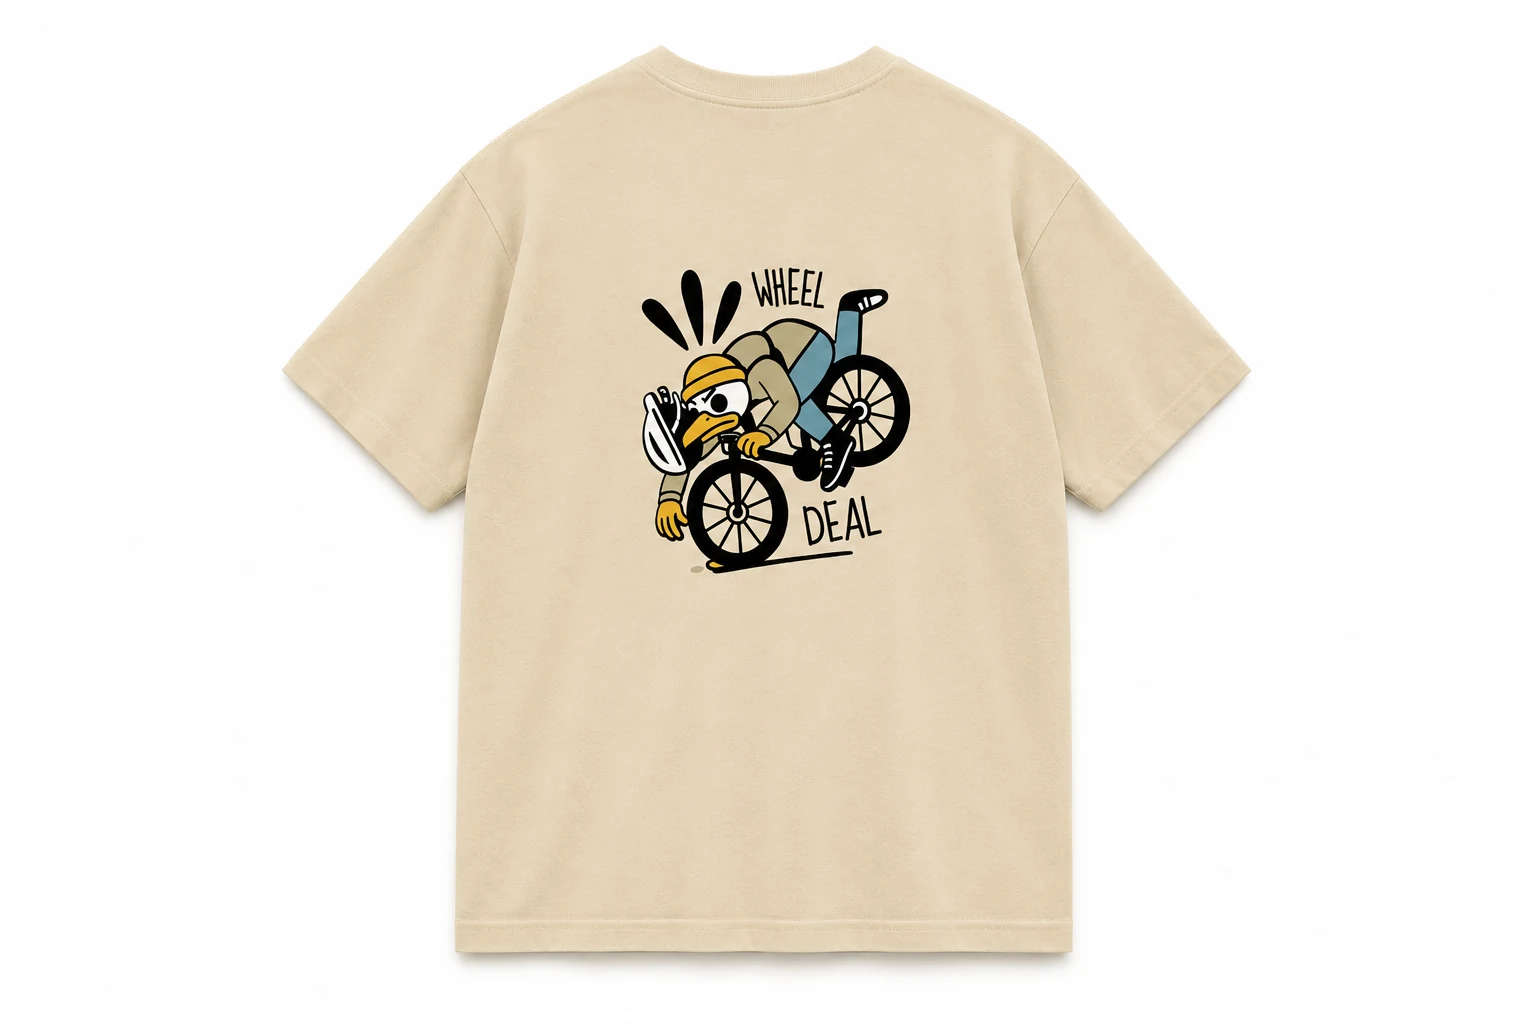
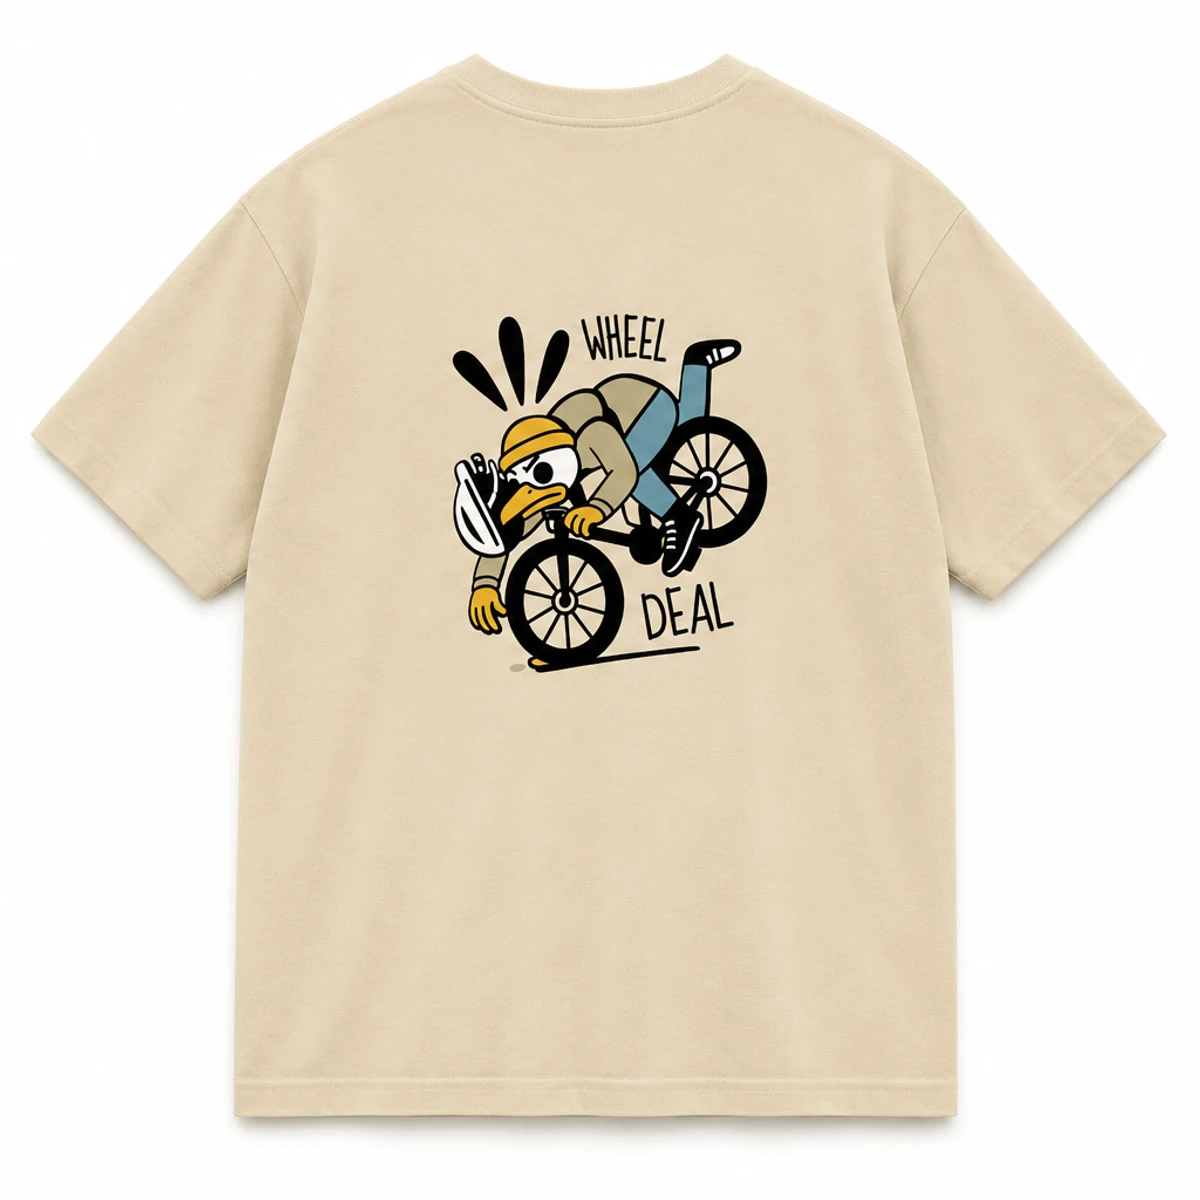
Align tee row and product framing

diff --git a/app/[locale]/[[...segments]]/page.tsx b/app/[locale]/[[...segments]]/page.tsx
@@ -206,7 +206,7 @@ function Home({ locale }: { locale: LocalizedLocale }) {
 }
 
 function ProductCards({ locale, products }: { locale: LocalizedLocale; products: typeof storefrontProducts }) {
-  return <div className="mt-8 grid gap-6 sm:grid-cols-2 lg:grid-cols-4">{products.map((raw) => { const product = localizedProduct(raw, locale); const useInsetComposition = raw.slug === "pin" || raw.slug.includes("tee"); return <Link key={product.slug} href={localizedPath(`/shop/${product.slug}`, locale)} className="overflow-hidden border border-sglInk bg-sglPaper transition hover:-translate-y-1"><div className="relative aspect-[4/5] overflow-hidden border-b border-sglInk bg-[#ededeb]"><Image src={product.images[0]} alt={product.title} fill sizes="25vw" className={useInsetComposition ? "object-contain p-8 mix-blend-darken" : "object-cover mix-blend-darken"} /></div><div className="p-5">{product.soldOut && <p className="mb-3 inline-block border border-sglInk bg-sglInk px-3 py-1 text-xs font-black uppercase tracking-wide text-sglCream">{labels[locale].soldOut}</p>}<h2 className="text-xl font-black">{product.title}</h2><p className="mt-3 text-sm leading-6 opacity-70">{product.description}</p><p className="mt-4 font-black">$ {product.priceLabel}</p></div></Link>; })}</div>;
+  return <div className="mt-8 grid gap-6 sm:grid-cols-2 lg:grid-cols-4">{products.map((raw) => { const product = localizedProduct(raw, locale); const isTee = raw.slug.includes("tee"); const useInsetComposition = raw.slug === "pin" || isTee; return <Link key={product.slug} href={localizedPath(`/shop/${product.slug}`, locale)} className="overflow-hidden border border-sglInk bg-sglPaper transition hover:-translate-y-1"><div className={`relative overflow-hidden border-b border-sglInk bg-[#ededeb] ${isTee ? "aspect-square" : "aspect-[4/5]"}`}><Image src={product.images[0]} alt={product.title} fill sizes="25vw" className={isTee ? "object-contain p-3 mix-blend-darken" : useInsetComposition ? "object-contain p-8 mix-blend-darken" : "object-cover mix-blend-darken"} /></div><div className="p-5">{product.soldOut && <p className="mb-3 inline-block border border-sglInk bg-sglInk px-3 py-1 text-xs font-black uppercase tracking-wide text-sglCream">{labels[locale].soldOut}</p>}<h2 className="text-xl font-black">{product.title}</h2><p className="mt-3 text-sm leading-6 opacity-70">{product.description}</p><p className="mt-4 font-black">$ {product.priceLabel}</p></div></Link>; })}</div>;
 }
 
 function About({ locale }: { locale: LocalizedLocale }) {

diff --git a/components/ProductCard.tsx b/components/ProductCard.tsx
@@ -4,20 +4,21 @@ import type { Product } from "@/data/products";
 
 export default function ProductCard({ product }: { product: Product }) {
   const image = product.images[0] || "/products/placeholder-bag.svg";
-  const useInsetComposition = product.slug === "pin" || product.slug.includes("tee");
+  const isTee = product.slug.includes("tee");
+  const useInsetComposition = product.slug === "pin" || isTee;
 
   return (
     <Link
       href={`/shop/${product.slug}`}
       className="group block overflow-hidden border border-sglInk bg-sglPaper transition hover:-translate-y-1 hover:shadow-[8px_8px_0_#111111]"
     >
-      <div className="relative flex aspect-[4/5] items-center justify-center overflow-hidden border-b border-sglInk bg-[#ededeb]">
+      <div className={`relative flex items-center justify-center overflow-hidden border-b border-sglInk bg-[#ededeb] ${isTee ? "aspect-square" : "aspect-[4/5]"}`}>
         <Image
           src={image}
           alt={product.title}
           fill
           sizes="(max-width: 768px) 50vw, 25vw"
-          className={useInsetComposition ? "object-contain p-8 mix-blend-darken" : "object-cover mix-blend-darken"}
+          className={isTee ? "object-contain p-3 mix-blend-darken" : useInsetComposition ? "object-contain p-8 mix-blend-darken" : "object-cover mix-blend-darken"}
         />
       </div>
 

diff --git a/data/products.ts b/data/products.ts
@@ -2155,6 +2155,25 @@ export function getProductsByCategory(category: string) {
       ...items.filter(product => product.slug !== "chrissy1")
     ];
   }
+  if (category === "Wear") {
+    const caps = [
+      "seagull-friends-family-cap-white-blue",
+      "seagull-cap-khaki-brown",
+      "seagull-cap-lavender",
+      "seagull-cap-black-grey"
+    ];
+    const tees = [
+      "wheel-deal-logo-study-tee",
+      "wheel-deal-gull-rider-tee",
+      "celtic-gull-tee-washed-black",
+      "sgl-patch-tee-sky-blue"
+    ];
+    return [
+      ...caps.flatMap(slug => items.filter(product => product.slug === slug)),
+      ...tees.flatMap(slug => items.filter(product => product.slug === slug)),
+      ...items.filter(product => !caps.includes(product.slug) && !tees.includes(product.slug))
+    ];
+  }
   if (category !== "Bags & Carry") return items;
   const first = ["handlebar-bag-white-grey", "handlebar-bags", "handleber-bags-grey"];
   const last = ["seat-bag", "bike-cover", "reveal-shoe-sack", "sportglassea-case"];

diff --git a/tests/products.test.ts b/tests/products.test.ts
@@ -17,13 +17,16 @@ test("storefront hides products without a real image or price", () => {
   assert.ok(getProduct("seat-bag"));
 });
 
-test("storefront begins with one row of caps and socks start the second row", () => {
-  assert.deepEqual(storefrontProducts.slice(0, 5).map(product => product.slug), [
+test("Wear begins with one row of caps followed by one row of tees", () => {
+  assert.deepEqual(getProductsByCategory("Wear").slice(0, 8).map(product => product.slug), [
     "seagull-friends-family-cap-white-blue",
     "seagull-cap-khaki-brown",
     "seagull-cap-lavender",
     "seagull-cap-black-grey",
-    "sgl-three-pair-sock-set"
+    "wheel-deal-logo-study-tee",
+    "wheel-deal-gull-rider-tee",
+    "celtic-gull-tee-washed-black",
+    "sgl-patch-tee-sky-blue"
   ]);
 });
 
